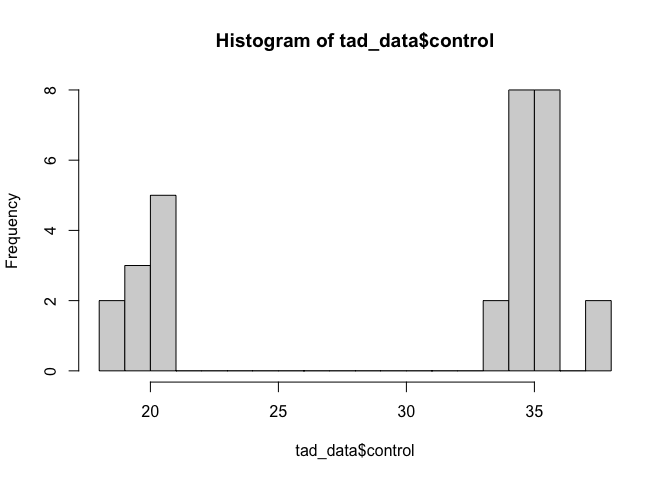
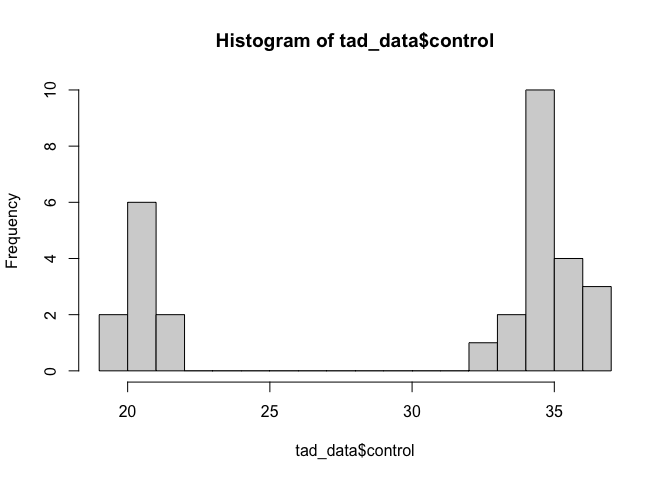
Updated answers for Chapter 1.

diff --git a/Chapter_1_answers.md b/Chapter_1_answers.md
@@ -12,6 +12,8 @@ way, you will learn much more if you have already spent some time
 working through the assignments on your own. If you haven’t done that,
 close this page and go work on it! :)
 
+<span style="color: #009933;">
+
 # Assignment 1
 
 **Create a data frame that contains at least one factor with three
@@ -19,6 +21,8 @@ categories and at least three columns of made up numeric data. Thus, it
 should have at least four columns. Make sure the columns have meaningful
 names. Have at least 10 rows per categories (i.e., at least 30 rows
 long).**
+
+</span>
 
 How should you go about doing this? As with anything in R, there are of
 course many different ways. I will show you how I would do it. The basic
@@ -96,28 +100,28 @@ dietB<-c(rnorm(n=10, mean=20, sd=1), rnorm(n=10, mean=35, sd=1), rnorm(n=10, mea
 control
 ```
 
-    ##  [1] 20.73760 18.49489 20.29219 19.30315 19.77893 20.09687 20.76127 19.17664
-    ##  [9] 18.28501 20.34751 35.39660 33.15432 37.10786 34.98861 34.67859 35.08809
-    ## [17] 34.08877 37.12149 35.84106 34.76877 35.67099 35.10276 34.99480 35.34974
-    ## [25] 35.50952 33.67269 35.42645 34.46863 34.10725 34.63849
+    ##  [1] 20.57930 19.64202 19.63609 20.30259 21.02068 21.21914 20.46042 20.40025
+    ##  [9] 20.54998 20.54167 34.91134 34.41659 34.84291 36.62631 35.00597 35.24791
+    ## [17] 33.61318 36.08048 34.20328 34.55595 33.80103 35.74172 34.67949 34.55104
+    ## [25] 34.24019 34.09101 32.42637 36.04978 35.65781 34.27815
 
 ``` r
 dietA
 ```
 
-    ##  [1] 20.77005 19.52696 20.79268 19.52774 18.95888 19.86203 20.05655 18.29598
-    ##  [9] 19.57891 20.17048 42.86122 43.84275 44.82096 45.72389 46.86677 45.29405
-    ## [17] 44.50662 44.50442 45.33429 42.42970 34.64434 35.87777 35.94290 34.58550
-    ## [25] 35.16833 34.90402 34.31371 34.44284 35.73731 33.26659
+    ##  [1] 20.44656 21.88104 19.38954 19.63994 18.61269 19.82295 22.24552 20.67716
+    ##  [9] 21.16374 18.30282 45.30123 44.87735 44.36788 44.43681 45.01831 45.24333
+    ## [17] 44.12376 46.33203 46.13052 43.87149 36.06228 35.11989 35.46579 32.82102
+    ## [25] 36.89131 35.24342 34.78769 34.79207 33.66657 33.65604
 
 ``` r
 dietB
 ```
 
-    ##  [1] 20.84326 20.94604 20.34134 21.12023 20.24487 19.43296 19.93854 19.18314
-    ##  [9] 18.84347 17.83849 35.89656 36.48618 35.45261 34.67795 35.20229 32.38655
-    ## [17] 34.10399 35.84304 33.56273 33.29140 50.43411 48.97176 48.65341 50.87030
-    ## [25] 50.21583 50.10527 50.64705 49.15345 51.46179 50.00168
+    ##  [1] 20.38696 20.30810 19.51733 22.22456 21.04121 21.23533 19.44910 20.09328
+    ##  [9] 20.82229 19.55889 35.10596 35.73468 35.47627 36.69830 35.81678 36.03984
+    ## [17] 34.31354 34.09483 35.26549 34.58444 50.59671 51.28851 49.07442 50.11708
+    ## [25] 49.77572 50.23377 49.62425 51.89316 49.43520 48.08233
 
 Okay, now we have our four vectors. It’s time to combine them into a
 data frame using the function **data.frame()**. Remember to assign your
@@ -129,36 +133,36 @@ tad_data
 ```
 
     ##    species  control    dietA    dietB
-    ## 1     HGTF 20.73760 20.77005 20.84326
-    ## 2     HGTF 18.49489 19.52696 20.94604
-    ## 3     HGTF 20.29219 20.79268 20.34134
-    ## 4     HGTF 19.30315 19.52774 21.12023
-    ## 5     HGTF 19.77893 18.95888 20.24487
-    ## 6     HGTF 20.09687 19.86203 19.43296
-    ## 7     HGTF 20.76127 20.05655 19.93854
-    ## 8     HGTF 19.17664 18.29598 19.18314
-    ## 9     HGTF 18.28501 19.57891 18.84347
-    ## 10    HGTF 20.34751 20.17048 17.83849
-    ## 11    RETF 35.39660 42.86122 35.89656
-    ## 12    RETF 33.15432 43.84275 36.48618
-    ## 13    RETF 37.10786 44.82096 35.45261
-    ## 14    RETF 34.98861 45.72389 34.67795
-    ## 15    RETF 34.67859 46.86677 35.20229
-    ## 16    RETF 35.08809 45.29405 32.38655
-    ## 17    RETF 34.08877 44.50662 34.10399
-    ## 18    RETF 37.12149 44.50442 35.84304
-    ## 19    RETF 35.84106 45.33429 33.56273
-    ## 20    RETF 34.76877 42.42970 33.29140
-    ## 21    GLDF 35.67099 34.64434 50.43411
-    ## 22    GLDF 35.10276 35.87777 48.97176
-    ## 23    GLDF 34.99480 35.94290 48.65341
-    ## 24    GLDF 35.34974 34.58550 50.87030
-    ## 25    GLDF 35.50952 35.16833 50.21583
-    ## 26    GLDF 33.67269 34.90402 50.10527
-    ## 27    GLDF 35.42645 34.31371 50.64705
-    ## 28    GLDF 34.46863 34.44284 49.15345
-    ## 29    GLDF 34.10725 35.73731 51.46179
-    ## 30    GLDF 34.63849 33.26659 50.00168
+    ## 1     HGTF 20.57930 20.44656 20.38696
+    ## 2     HGTF 19.64202 21.88104 20.30810
+    ## 3     HGTF 19.63609 19.38954 19.51733
+    ## 4     HGTF 20.30259 19.63994 22.22456
+    ## 5     HGTF 21.02068 18.61269 21.04121
+    ## 6     HGTF 21.21914 19.82295 21.23533
+    ## 7     HGTF 20.46042 22.24552 19.44910
+    ## 8     HGTF 20.40025 20.67716 20.09328
+    ## 9     HGTF 20.54998 21.16374 20.82229
+    ## 10    HGTF 20.54167 18.30282 19.55889
+    ## 11    RETF 34.91134 45.30123 35.10596
+    ## 12    RETF 34.41659 44.87735 35.73468
+    ## 13    RETF 34.84291 44.36788 35.47627
+    ## 14    RETF 36.62631 44.43681 36.69830
+    ## 15    RETF 35.00597 45.01831 35.81678
+    ## 16    RETF 35.24791 45.24333 36.03984
+    ## 17    RETF 33.61318 44.12376 34.31354
+    ## 18    RETF 36.08048 46.33203 34.09483
+    ## 19    RETF 34.20328 46.13052 35.26549
+    ## 20    RETF 34.55595 43.87149 34.58444
+    ## 21    GLDF 33.80103 36.06228 50.59671
+    ## 22    GLDF 35.74172 35.11989 51.28851
+    ## 23    GLDF 34.67949 35.46579 49.07442
+    ## 24    GLDF 34.55104 32.82102 50.11708
+    ## 25    GLDF 34.24019 36.89131 49.77572
+    ## 26    GLDF 34.09101 35.24342 50.23377
+    ## 27    GLDF 32.42637 34.78769 49.62425
+    ## 28    GLDF 36.04978 34.79207 51.89316
+    ## 29    GLDF 35.65781 33.66657 49.43520
+    ## 30    GLDF 34.27815 33.65604 48.08233
 
 Hooray, you did it! As discussed earlier, you could choose anything to
 be your categories (e.g., strains of mice in a study, brands of cereal
@@ -167,19 +171,23 @@ to eat, species of plants) and anything for your numeric variables
 content of cereals, growth rates of plants under three different light
 conditions, etc.) Okay, onward and upward.
 
+<span style="color: #009933;">
+
 # Assignment 2
 
 **Once you have a data frame, plot a histogram of your numeric
 variables. Try to dress it up by adding color, changing the limits of
 the axes, and adding a main title. How will you figure out how to do
-that? Look at the help file for **hist()**.**
+that? Look at the help file for** hist()**.**
+
+</span>
 
 The basic goal here is to look at the values in your numeric vectors. If
 you look at the help file for the **hist()** function (which can be done
 by simply typing *?hist* in the console) you will see there are lots and
 lots of options. All of those are *optional* except for *x*, which is
 the vector of values you want to plot. In our data frame, we can access
-our numeric vectors with the **/$** operator. For example, if we want to
+our numeric vectors with the **$** operator. For example, if we want to
 plot a histogram of the vector of sizes we measured in our control diet,
 we can type the following:
 
@@ -221,11 +229,15 @@ changing the title with the *main==* argument, or play with the range
 limits using *xlim=* or *ylim=*. You can even *add* one histogram to an
 existing plot, using the *add=T* argument.
 
+<span style="color: #009933;">
+
 # Assignment 3
 
-**Use the **plot() **function to try and plot your numeric and
+**Use the** plot() **function to try and plot your numeric and
 categorical variables. What happens when you give R different types of
 data to plot?**
+
+</span>
 
 The **plot()** function is a very basic and fundamental function in R.
 We will explore its utility in the coming chapters, but for now let’s
